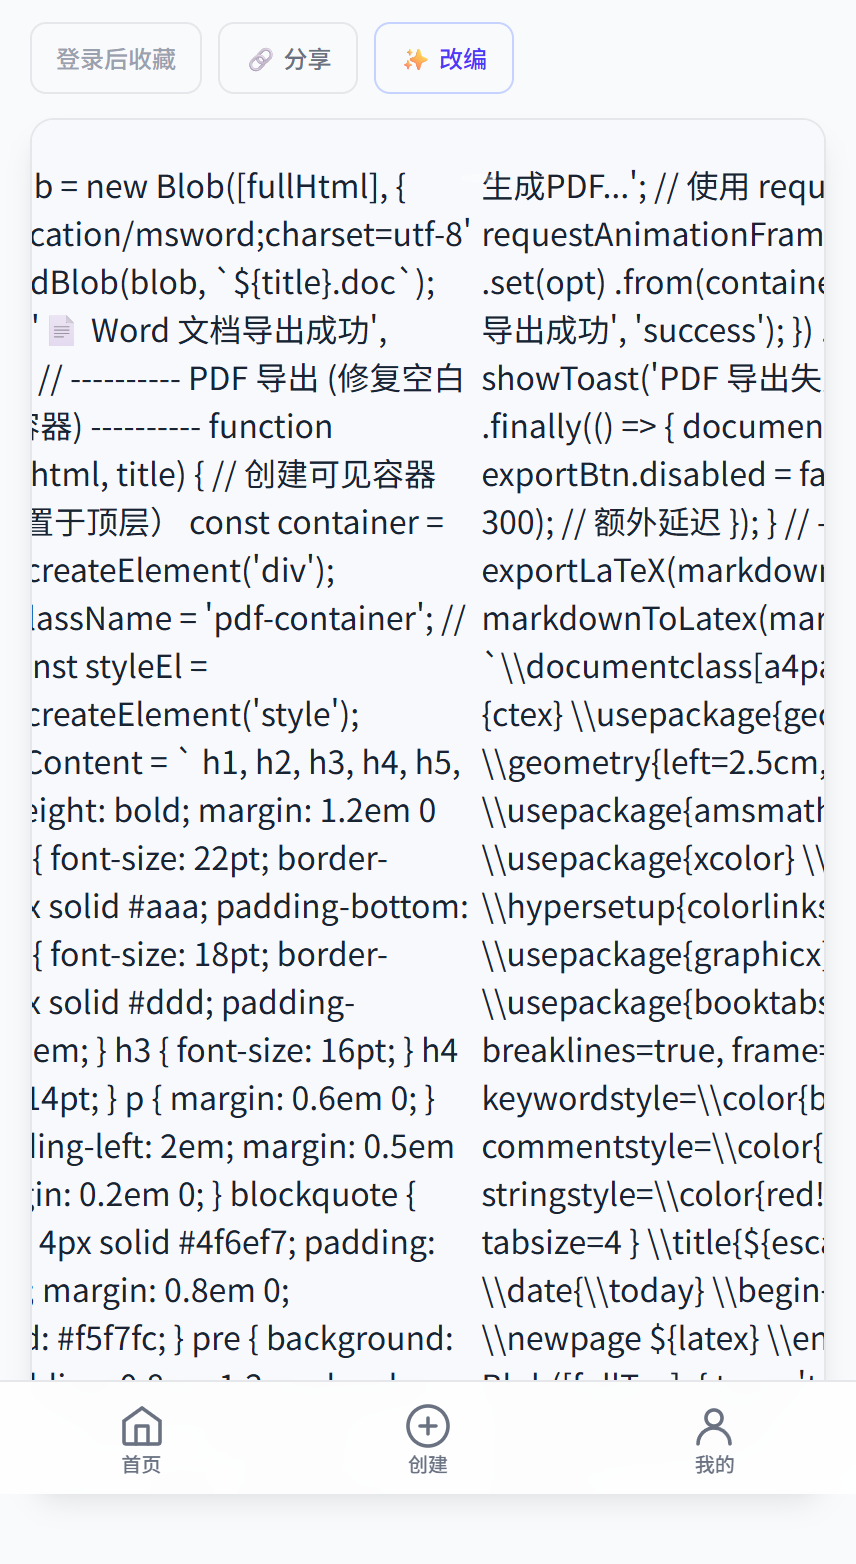
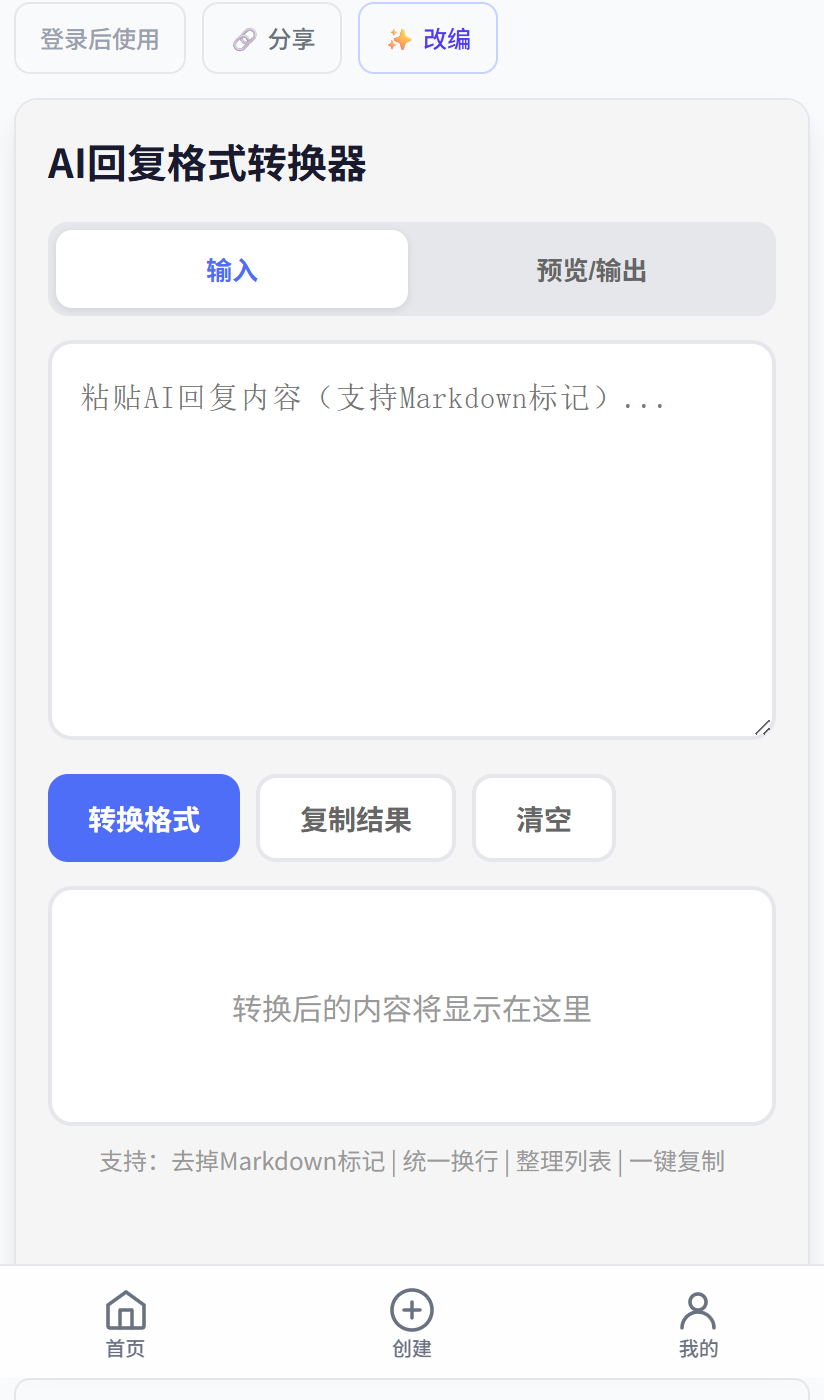
fix: 创作页面不再有默认代码，编辑器初始为空

diff --git a/src/app/create/page.tsx b/src/app/create/page.tsx
@@ -18,7 +18,9 @@ import { captureCover, generateDefaultCoverBlob, uploadCoverToStorage } from "@/
 
 // --- Constants ---
 
-const DEFAULT_CODE = `<!DOCTYPE html>
+const DEFAULT_CODE = "";
+
+const TEMPLATE_CODE = `<!DOCTYPE html>
 <html lang="zh-CN">
 <head>
   <meta charset="UTF-8">
@@ -480,7 +482,7 @@ function CreatePageInner() {
   const mobileActions = (
     <>
       <button
-        onClick={() => { setCode(DEFAULT_CODE); toast.info("已填入示例工具"); }}
+        onClick={() => { setCode(TEMPLATE_CODE); toast.info("已填入示例工具"); }}
         className="min-w-[44px] min-h-[44px] flex items-center justify-center px-2 py-1 text-xs rounded-lg transition-all font-medium bg-indigo-500 text-white hover:bg-indigo-600"
       >
         示例
@@ -508,7 +510,7 @@ function CreatePageInner() {
         重置
       </button>
       <button
-        onClick={() => { setCode(DEFAULT_CODE); toast.info("已填入示例工具"); }}
+        onClick={() => { setCode(TEMPLATE_CODE); toast.info("已填入示例工具"); }}
         className="min-w-[44px] min-h-[44px] flex items-center gap-1 px-3 py-1.5 text-sm text-indigo-600 hover:text-indigo-700 hover:bg-indigo-50 rounded-lg transition-colors"
       >
         <svg className="w-4 h-4" fill="none" stroke="currentColor" viewBox="0 0 24 24">
